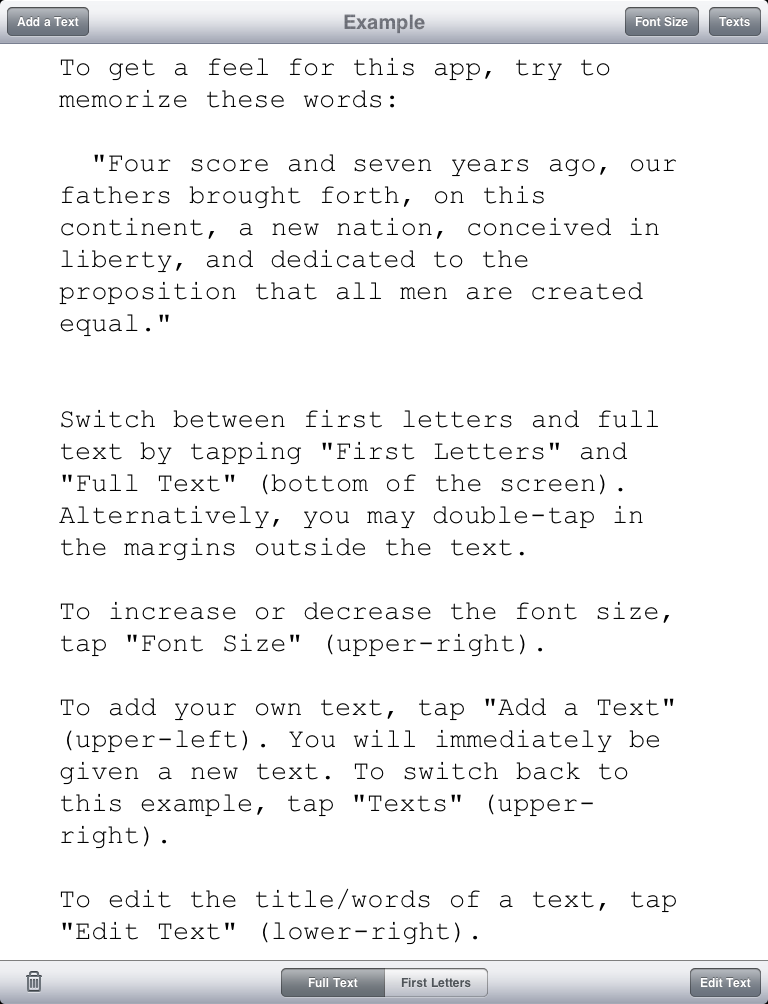
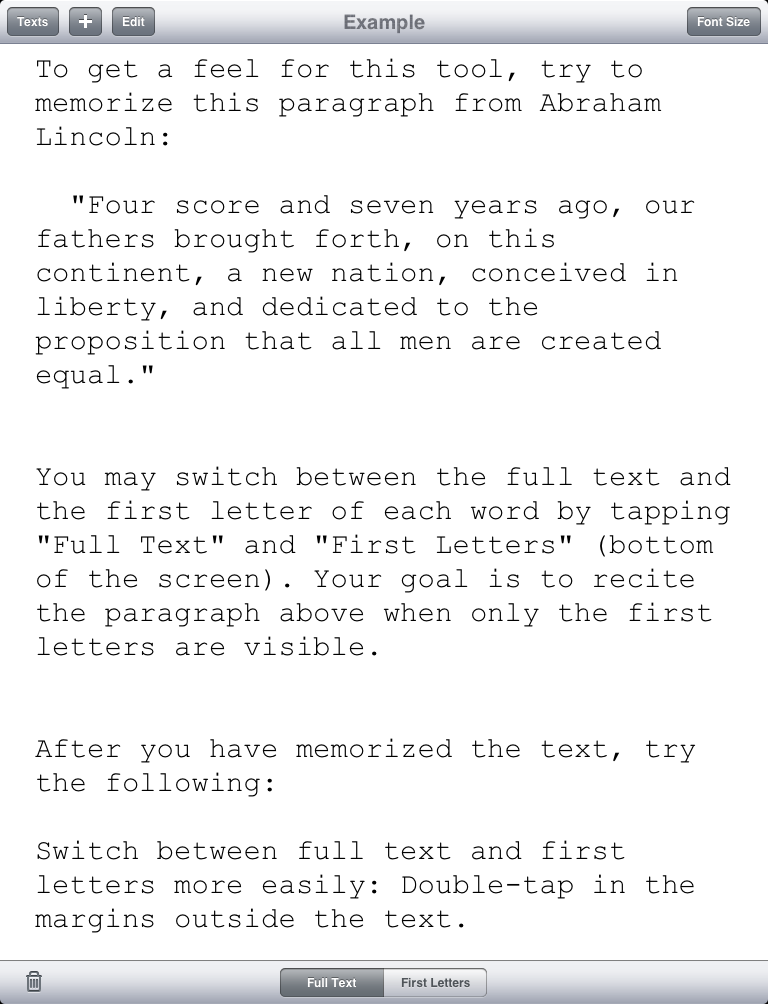
v1.05. Examples updated. Updated app store.
--Examples updated.
--New texts include instructions on how to edit, paste and delete.
--Update on app store.
  --Screenshots
  --Keywords
  --Description
--Updated version was submitted. Awaiting approval.

--Next:
  --Wait for latest version to be approved on app store.
    --Make sure examples work.
    --Check functionality.
  --Explore Instruments/testing/profiling.
  --More user testing?

diff --git a/Classes/Text.m b/Classes/Text.m
@@ -58,7 +58,14 @@
 	NSLog(@"Awake from insert");
 	self.isDefaultData = NO;
 	self.title = @"A New Text";
-	self.text = @"This is the default text.";
+	self.text = @"This is a new text."
+        "\n\nTo edit the title and words of this text: First, tap \"Edit\" (top-left of the screen), then \"Edit Current Title and Text,\" to go into editing mode."
+        "\n\nTo edit the title: While in editing mode, tap \"Rename Title\" (bottom-left)."
+        "\n\nTo edit the words of this text: While in editing mode, tap the text."
+        "\n\nTo select all of the text: While in editing mode, hold your finger on the text until a magnifying glass appears. Then let go, and a menu will appear with options to \"Select\" and \"Select All.\"" 
+        "\n\nTo add text by pasting it: First, select your desired text and \"Copy\" or \"Cut\" it. (This can be done even in another app.) Then, follow the instructions above for selecting all of the text. The resulting menu will also have an option to \"Paste.\""
+        "\n\nTo leave editing mode: Tap \"Cancel\" (top-left) to undo any changes to the words of this text, or tap \"Done\" (top-right) to save the changes."
+        "\n\nTo delete this text: Tap the Trash Can (bottom-left), then \"Delete This Text.\" (If you accidentally tap the Trash Can, just tap anywhere except \"Delete This Text.\" Try it now to get a feel for it.)";
 }
 
 - (Text *)clone {

diff --git a/Classes/DefaultData.m b/Classes/DefaultData.m
@@ -12,7 +12,7 @@
 
 NSString *defaultDataStoreName = @"defaultDataStore.sqlite";
 
-NSString *welcomeTextTitle = @"Welcome";
+NSString *welcomeTextTitle = @"Welcome!";
 
 // Private category for private methods.
 @interface DefaultData ()
